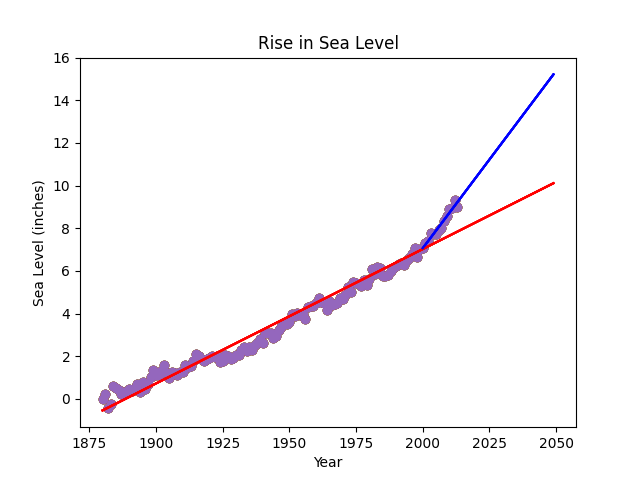
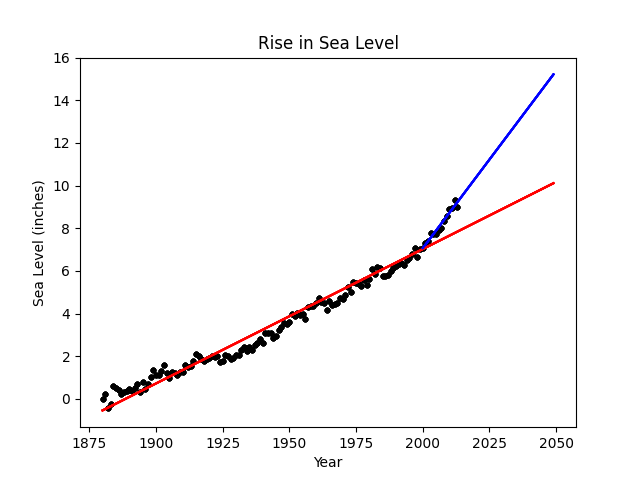
feat: adjust marker size and colors

Changed region(s): [[0.1562, 0.4062, 0.7188, 0.875]]

diff --git a/sea_level_predictor.py b/sea_level_predictor.py
@@ -9,7 +9,7 @@ def draw_plot():
     df = pd.read_csv('epa-sea-level.csv')
 
     # Create scatter plot
-    plt.scatter(x=df['Year'], y=df['CSIRO Adjusted Sea Level'])
+    plt.scatter(x=df['Year'], y=df['CSIRO Adjusted Sea Level'], s=10, c='black')
 
     # Create first line of best fit
     slope, intercept = linregress(
